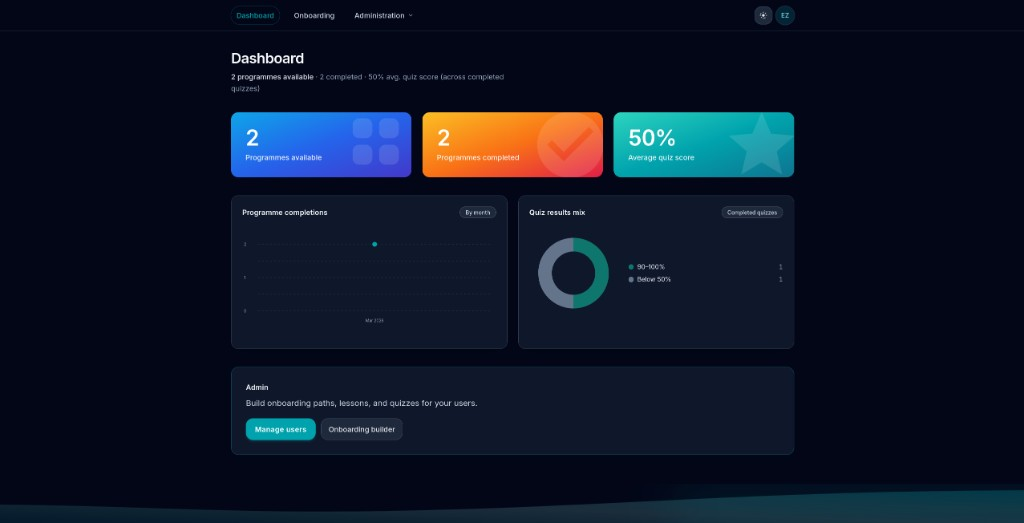
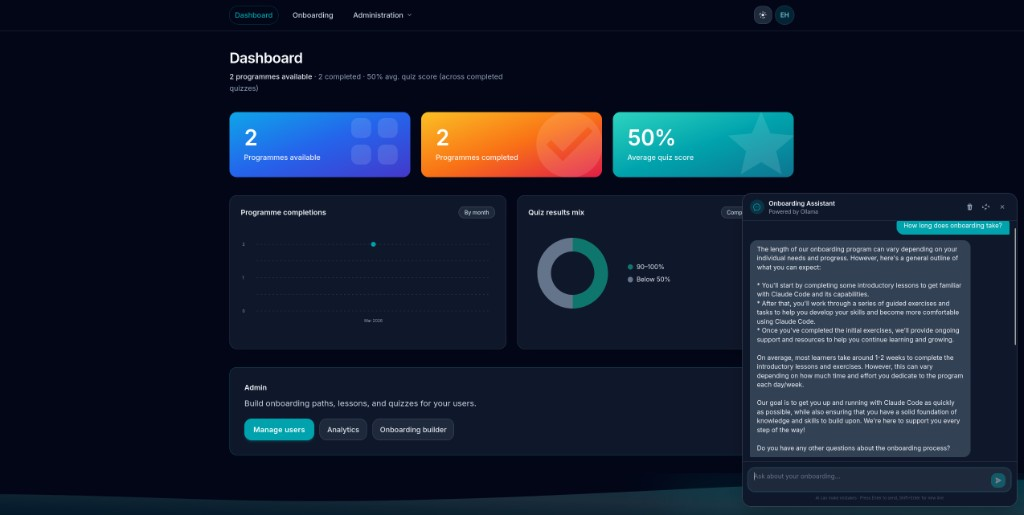
updated readme.md and dashboard.png

diff --git a/README.md b/README.md
@@ -16,6 +16,7 @@ This repo is a **pnpm monorepo** (web SPA, REST API, shared package). Use it as 
 | **Admins** | CRUD onboarding programmes (steps, lesson HTML, quiz questions), publishing and department scoping, user list (roles / departments). |
 | **Lessons** | [TipTap](https://tiptap.dev/) / ProseMirror editor in the admin builder; stored HTML is **sanitised** when shown in the player (structure, alignment, links, etc.). |
 | **Auth** | JWT access token (client memory) + refresh token (**httpOnly** cookie). Optional **Microsoft Entra ID** SSO when tenant/client env vars are set. |
+| **AI Assistant** | Floating chatbot available on every authenticated page, backed by a configurable AI provider (Ollama, OpenAI, Anthropic, or any OpenAI-compatible endpoint). Answers questions about published onboarding programmes. Administrators configure the provider, URL, and model via **Administration → AI Settings**. |
 
 ---
 
@@ -152,6 +153,49 @@ docker compose -f docker-compose.prod.yml --env-file .env up --build
 - Set **`VITE_API_URL`** at **image build time** to the URL clients use for the API.  
 
 > Do **not** merge `docker-compose.yml` with `docker-compose.prod.yml` for a clean production deploy—Compose merges volume definitions. Use `docker-compose.prod.yml` alone for production.
+
+---
+
+## AI Assistant
+
+A floating chat widget is available on every authenticated page (bottom-right corner). It answers questions about published onboarding programmes by sending conversation context—including programme titles, lesson content, and quiz questions—to the configured AI provider.
+
+### Supported providers
+
+| Provider | Notes |
+|----------|-------|
+| **Ollama** | Self-hosted models. Requires a base URL (e.g. `http://localhost:11434`). API key optional. |
+| **OpenAI** | GPT-4o, GPT-4 Turbo, etc. API key required. Base URL optional (defaults to `https://api.openai.com`). |
+| **Anthropic** | Claude 3.5 Sonnet, Claude 3 Opus, etc. API key required. Base URL optional. |
+| **OpenAI-compatible** | Any server that implements the OpenAI Chat Completions API (Groq, Azure OpenAI, LM Studio, Together AI, etc.). Requires a base URL. |
+
+### Configuration
+
+1. Sign in as an administrator and go to **Administration → AI Settings**.
+2. Select a provider, enter the server URL (where required), and enter the API key.
+3. Click **Refresh models** to load available models from the provider, select one, then **Save settings**.
+
+### API key security
+
+API keys are **never returned to the browser**. They are encrypted at rest using **AES-256-GCM** before being stored in the database. The key used for encryption is sourced from the `ENCRYPTION_KEY` environment variable.
+
+Generate a key:
+
+```bash
+node -e "console.log(require('crypto').randomBytes(32).toString('hex'))"
+```
+
+Add it to `apps/api/.env`:
+
+```
+ENCRYPTION_KEY=<64 hex characters>
+```
+
+> **Required in production.** In development, the API falls back to an insecure all-zero key and prints a warning—this is intentional so local dev works without any configuration, but must never be used in a shared or production environment.
+
+### Timeouts
+
+Model responses can be slow. The chat endpoint allows up to **2 minutes** for a response before returning a timeout error. The model list endpoint times out after **10 seconds**.
 
 ---
 
